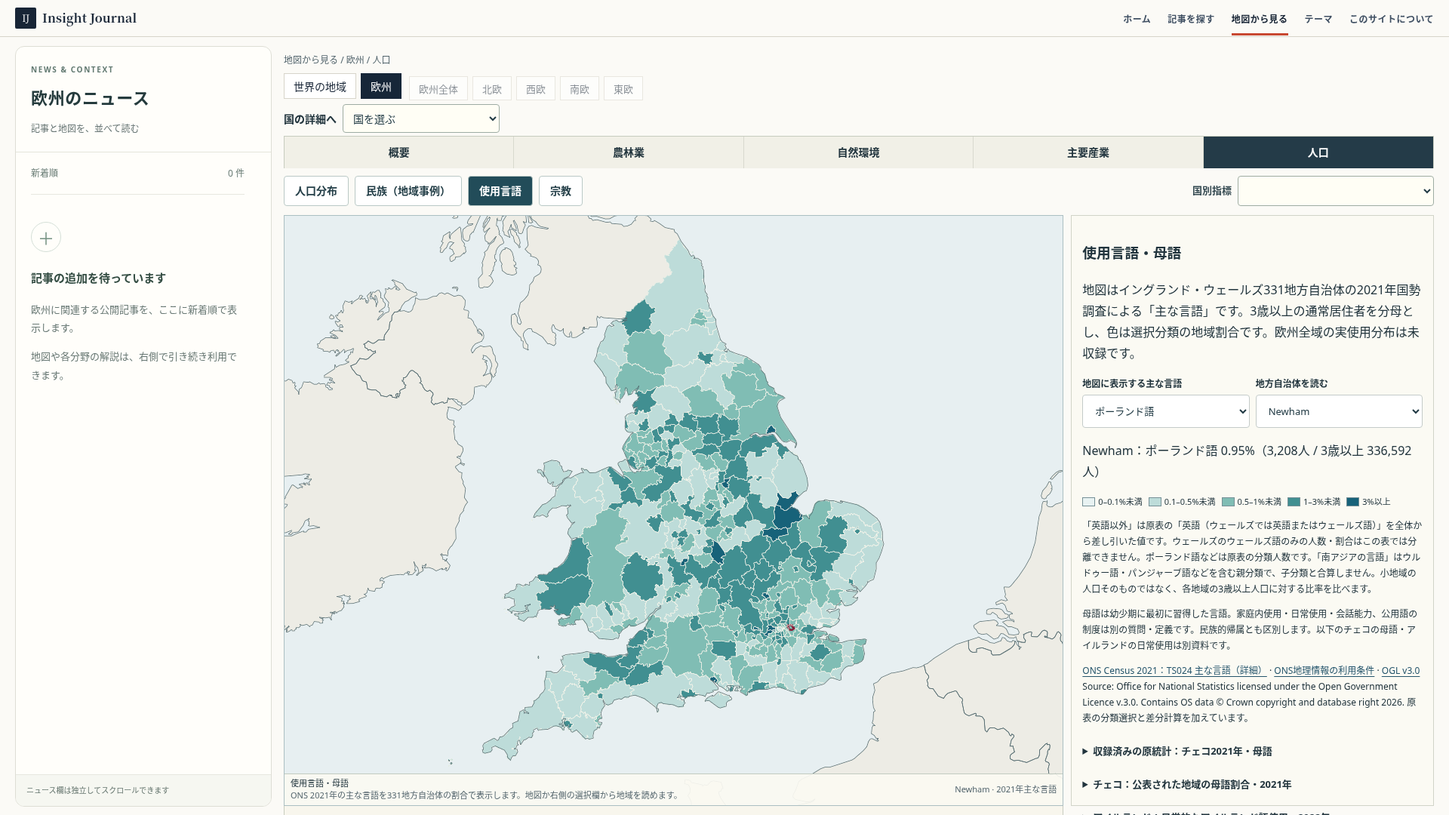
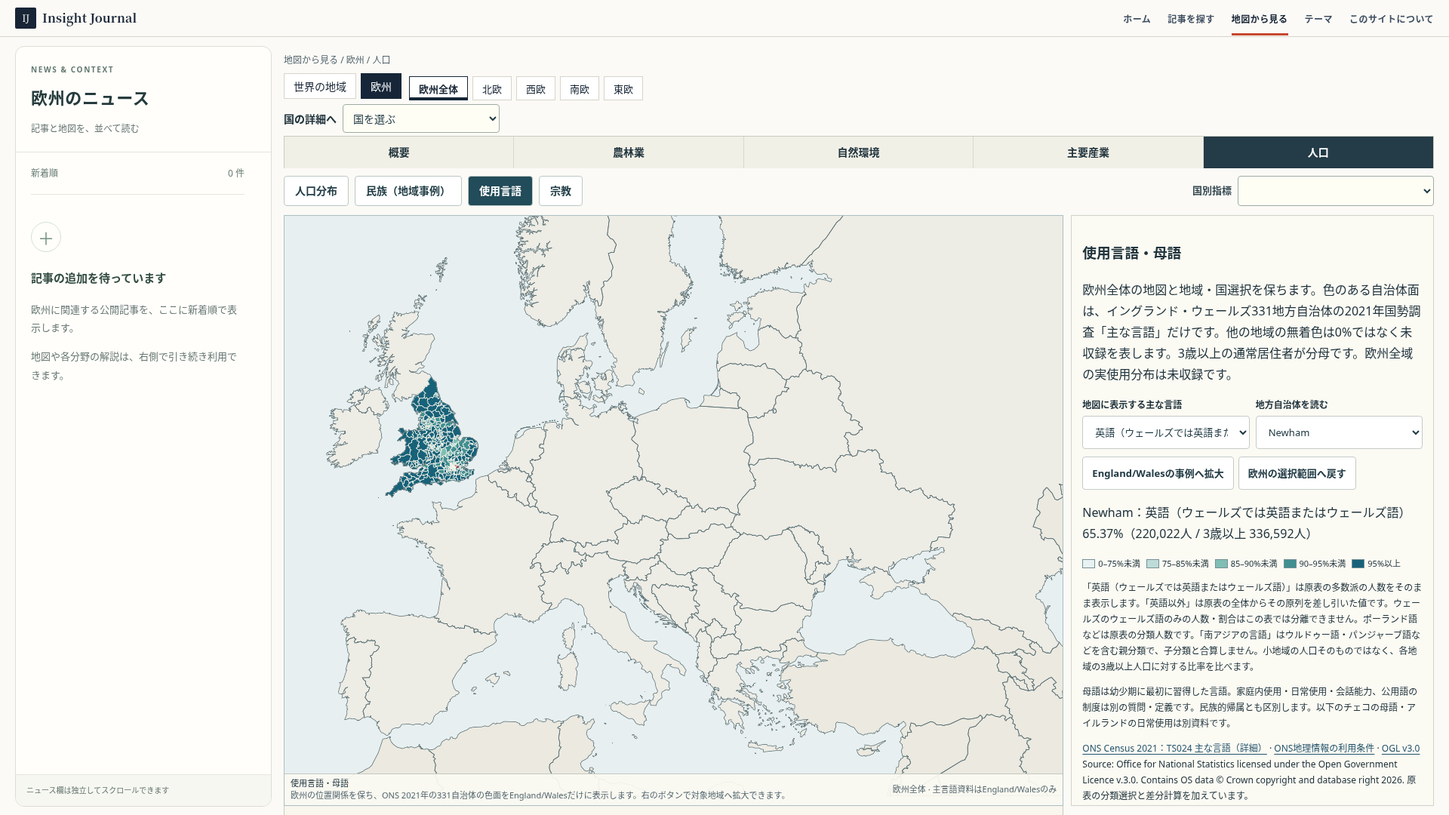
Keep Europe language overview and expose ONS majority category

diff --git a/src/lib/atlas-europe-explorer.ts b/src/lib/atlas-europe-explorer.ts
@@ -81,6 +81,7 @@ export async function initEuropeAtlas() {
   let loadTimer: ReturnType<typeof setTimeout> | undefined;
   const reduced = window.matchMedia?.('(prefers-reduced-motion: reduce)').matches ?? true;
   const regionNames: Record<string, string> = { all: '欧州全体', north: '北欧', west: '西欧', south: '南欧', east: '東欧' };
+  const languageCaseBounds:[[number,number],[number,number]]=[[-6.5,49.8],[2.2,55.9]];
   const comparisonDetails=query<HTMLDetailsElement>('.eu-comparison-origin');
   const comparisonDetailsHome=document.createComment('Europe comparison methods');comparisonDetails.before(comparisonDetailsHome);
   const gridReading=query<HTMLElement>('[data-eu-subject-grid]');
@@ -122,6 +123,8 @@ export async function initEuropeAtlas() {
   async function updateLanguage(){
     languageLayer.style.display=languageActive()?'':'none';
     languageCategory.disabled=!languageActive();languageArea.disabled=!languageActive();
+    query<HTMLButtonElement>('[data-eu-language-fit]').disabled=!languageActive();
+    query<HTMLButtonElement>('[data-eu-language-reset]').disabled=!languageActive();
     paintLanguage();
     if(!languageActive())return;
     Object.assign(state,normaliseEuropeLanguageChoice(state));
@@ -160,6 +163,8 @@ export async function initEuropeAtlas() {
   function selectLanguageArea(code:string){state.languageArea=code;commit(false);}
   languageCategory.addEventListener('change',()=>{state.languageCategory=languageCategory.value;commit(false);});
   languageArea.addEventListener('change',()=>{state.languageArea=languageArea.value||undefined;commit(false);});
+  query<HTMLButtonElement>('[data-eu-language-fit]').addEventListener('click',()=>fit(languageCaseBounds));
+  query<HTMLButtonElement>('[data-eu-language-reset]').addEventListener('click',()=>fit());
   let pewSurfaceGroup:PewSurfaceGroup='unaffiliated';
   let religionOverviewMode:'smre'|'pew'='smre';
   const cultureOverview=createEuropeCultureOverview(root,id=>selectFeature(id),()=>{delete state.feature;state.place='';commit(false);});
@@ -422,7 +427,7 @@ export async function initEuropeAtlas() {
   function setLayer(id:string, save = true) {
     if(id==='overlay' && state.layer!=='overlay')state.returnLayer=state.layer;
     state.layer=id;
-    if(id==='language'){state.region='all';state.place='';state.city='';state.compare=[];delete state.feature;delete state.point;}
+    if(id==='language'){state.city='';state.compare=[];delete state.feature;delete state.point;}
     if(id==='contours')delete state.feature;
     if(id!=='drainage')delete state.riverBasin;
     if(id!=='hubs'){delete state.industryGroup;delete state.industryOnly;}
@@ -726,7 +731,7 @@ export async function initEuropeAtlas() {
     all<SVGElement>('[data-eu-shape]').forEach(shape=>{
       shape.style.fill=religionOverview?religionColor(shape.dataset.euShape??'')??'#d9dcda':cultureActive()?cultureBase:indicator?fills.find(([code])=>code===shape.dataset.euShape)?.[1]??'#d9dcda':'transparent';
       // Transparent country interiors must not intercept physical river lines.
-      shape.style.pointerEvents=indicator||religionOverview?'auto':'none';
+      shape.style.pointerEvents=indicator||religionOverview||languageActive()?'auto':'none';
     });
     if(map?.getLayer('land'))map.setPaintProperty('land','fill-color',religionOverview?['match',['get','code'],...pewFills.flat(),'#edece5']:cultureActive()?cultureBase:indicator?['match',['get','code'],...fills.flat(),'#edece5']:'#edece5');
     query<HTMLElement>('.eu-culture-legend').hidden=cultureActive()&&!state.cultureCase;
@@ -844,7 +849,6 @@ export async function initEuropeAtlas() {
   }
 
   function selectionBounds() {
-    if(languageActive())return [[-6.5,49.8],[2.2,55.9]] as [[number,number],[number,number]];
     if(subject().field==='industry')return [[-12,36],[33,69]] as [[number,number],[number,number]];
     const focus=comparisonFocus();
     if(focus)return [[focus.focusBounds[0],focus.focusBounds[1]],[focus.focusBounds[2],focus.focusBounds[3]]] as [[number,number],[number,number]];
@@ -857,9 +861,9 @@ export async function initEuropeAtlas() {
     const scale=Math.min(staticMap.clientWidth/box[2],staticMap.clientHeight/box[3]);if(!scale)return;
     all<SVGGElement>('[data-eu-point],[data-eu-feature-point]').forEach(g=>{const id=g.dataset.euPoint??g.dataset.euFeaturePoint;const p=[...cities,...features].find(p=>p.id===id);if(!p)return;const [x,y]=project(p.coordinates);g.querySelector('circle')?.setAttribute('r',String(5/scale));const label=g.querySelector('text');label?.setAttribute('x',String(x+9/scale));label?.setAttribute('y',String(y-9/scale));if(label)label.style.fontSize=12/scale+'px';});
   }
-  function fit() {
+  function fit(explicitBounds?:[[number,number],[number,number]]) {
     const onsCulture=cultureActive()&&state.cultureCase==='england-wales-2021';
-    const bounds = onsCulture ? [[-6.5,49.8],[2.2,55.9]] as [[number,number],[number,number]] : cultureActive() ? [[frame.west, frame.south], [frame.east, frame.north]] as [[number,number],[number,number]] : selectionBounds();
+    const bounds = explicitBounds ?? (onsCulture ? [[-6.5,49.8],[2.2,55.9]] as [[number,number],[number,number]] : cultureActive() ? [[frame.west, frame.south], [frame.east, frame.north]] as [[number,number],[number,number]] : selectionBounds());
     const [left, bottom] = project(bounds[0]);
     const [right, top] = project(bounds[1]);
     const width = Math.max(right - left, 24), height = Math.max(bottom - top, 24);
@@ -944,8 +948,6 @@ export async function initEuropeAtlas() {
     const canonical=writeEuropeState(new URL(location.href),state);
     if(canonical.pathname!==location.pathname||(cultureActive()||languageActive()||state.layer==='contours')&&canonical.href!==location.href)history.replaceState({},'',canonical);
     query<HTMLElement>('[data-eu-region-host]').hidden=currentField.id==='industry';
-    topicCountrySelect.disabled=languageActive();
-    topicCountrySelect.title=languageActive()?'この地図の原表はイングランド・ウェールズの自治体です。':'';
     query<HTMLElement>('[data-eu-industry-scope-host]').hidden=true;
     query<HTMLElement>('[data-eu-industry-scope-note]').hidden=currentField.id!=='industry';
     query<HTMLSelectElement>('[data-eu-industry-scope]').value=isEuropeIndustryCountry(state.place)?`country:${state.place}`:`region:${state.region}`;
@@ -953,11 +955,11 @@ export async function initEuropeAtlas() {
     const place = countries.find(c => c.code === state.place);
     query('[data-eu-focus]').textContent = `${place?.name ?? regionNames[state.region]} · ${subject().period}${state.place === 'RUS' ? subject().indicator?' · 数値はロシア全土':' · 地図は表示枠内のみ' : ''}`;
     if(cultureActive())query('[data-eu-focus]').textContent=topic==='religion'&&!state.cultureCase?`${countries.find(c=>c.code===state.place)?.name??'欧州全体'} · ${religionOverviewMode==='smre'?'SMRE 2010期の宗派・宗教':'Pew 2020年国別推計'}`: `${cultureSelection(culture.readState(),topic as 'ethnicity'|'religion').area?.name ?? '欧州全体・地域未選択'} · 2021年国勢調査`;
-    if(languageActive())query('[data-eu-focus]').textContent=`${europeLanguageReading(state).area?.name??'イングランド・ウェールズ'} · 2021年主な言語`;
+    if(languageActive())query('[data-eu-focus]').textContent=`${place?.name??regionNames[state.region]} · 主言語資料はEngland/Walesのみ`;
     all<HTMLButtonElement>('[data-eu-region]').forEach(button => {
-      button.setAttribute('aria-pressed',String(!cultureActive()&&!languageActive()&&button.dataset.euRegion===state.region));
-      button.disabled=cultureActive()||languageActive();
-      button.title=cultureActive()?'この事例の表示範囲は地図下の「事例」で選びます。':languageActive()?'ONSの収録範囲はイングランド・ウェールズです。':'';
+      button.setAttribute('aria-pressed',String(!cultureActive()&&button.dataset.euRegion===state.region));
+      button.disabled=cultureActive();
+      button.title=cultureActive()?'この事例の表示範囲は地図下の「事例」で選びます。':'';
     });
     all<SVGElement>('[data-eu-shape]').forEach(shape => shape.classList.toggle('is-selected', shape.dataset.euShape === state.place));
     all<HTMLElement>('[data-city-card]').forEach(card => { card.hidden = !active.includes(card.dataset.cityCard!); card.style.order = String(active.indexOf(card.dataset.cityCard!)); });
@@ -985,7 +987,7 @@ export async function initEuropeAtlas() {
     }else if(restorePoint)void showGrid(state.point,false);
     query<HTMLElement>('.eu-read-panel').setAttribute('aria-labelledby',state.layer==='language'?'eu-language-heading':cultureActive()?'eu-culture-reader-title':climateReader()?'eu-city-heading':'eu-subject-title');
     const farm=farmingView();
-    const guidance=subject().id==='hubs'?state.industryOnly?`${state.industryGroup}のみ表示中です。右側から全業種へ戻れます。`:'産業を選ぶと同じ業種の拠点を強調します。地図の名前・点から拠点の工程を読めます。':climateReader()?'観測所の平年値 · 1991–2020年':state.layer==='language'?'ONS 2021年の主な言語を331地方自治体の割合で表示します。地図か右側の選択欄から地域を読めます。':state.layer==='religion'&&!state.cultureCase?religionOverviewMode==='smre'?'SMREの45か国の最大分類を比較します。国を押すと8分類の割合と原資料を右に示します。':'Pewの2020年国別推計を地図上の小さな構成帯で示します。国を押すと7分類の値を右に示します。':cultureActive()?'地図下で事例・分類・行政区を選び、同じ表の総人口に対する割合を読みます。':farm.active?farm.single?`${farm.item!.name}だけを表示中です。元の表示には右側のボタンで戻れます。`:'品目名を選ぶと、その分布全体の輪郭を強調します。重なる場所では候補を選べます。':visibleFeatures().length?'地図の名前を押すと、その場所の説明を表示します。':subject().id==='precipitation'?'地図を押すと、その地点の年降水量を右側に表示します。':subject().id==='terrain'?'地図の山脈・平原・半島・海域の名前と右側の説明を読みます。':subject().grid?'地図を押すと、その位置の値を右側に表示します。':subject().indicator?'国を押すと、画面下部に国全体の数値を表示します。':'地図の凡例と右側の説明を読み比べます。';
+    const guidance=subject().id==='hubs'?state.industryOnly?`${state.industryGroup}のみ表示中です。右側から全業種へ戻れます。`:'産業を選ぶと同じ業種の拠点を強調します。地図の名前・点から拠点の工程を読めます。':climateReader()?'観測所の平年値 · 1991–2020年':state.layer==='language'?'欧州の位置関係を保ち、ONS 2021年の331自治体の色面をEngland/Walesだけに表示します。右のボタンで対象地域へ拡大できます。':state.layer==='religion'&&!state.cultureCase?religionOverviewMode==='smre'?'SMREの45か国の最大分類を比較します。国を押すと8分類の割合と原資料を右に示します。':'Pewの2020年国別推計を地図上の小さな構成帯で示します。国を押すと7分類の値を右に示します。':cultureActive()?'地図下で事例・分類・行政区を選び、同じ表の総人口に対する割合を読みます。':farm.active?farm.single?`${farm.item!.name}だけを表示中です。元の表示には右側のボタンで戻れます。`:'品目名を選ぶと、その分布全体の輪郭を強調します。重なる場所では候補を選べます。':visibleFeatures().length?'地図の名前を押すと、その場所の説明を表示します。':subject().id==='precipitation'?'地図を押すと、その地点の年降水量を右側に表示します。':subject().id==='terrain'?'地図の山脈・平原・半島・海域の名前と右側の説明を読みます。':subject().grid?'地図を押すと、その位置の値を右側に表示します。':subject().indicator?'国を押すと、画面下部に国全体の数値を表示します。':'地図の凡例と右側の説明を読み比べます。';
     status.textContent=(failed?'簡易地図で表示中。':'')+guidance;
     query<HTMLElement>('[data-eu-statistics]').hidden=all<HTMLElement>('[data-eu-statistics] > *').every(section=>section.hidden);
     all<HTMLElement>('[data-eu-extra-field]').forEach(el=>{el.hidden=el.dataset.euExtraField!==currentField.id;});
@@ -1014,12 +1016,13 @@ export async function initEuropeAtlas() {
     }
     const country = countries.find(c => c.code === code);
     state.place = country?.code ?? '';
+    if(languageActive())delete state.languageArea;
     if(state.farmCompare){state.farmCompare=state.farmCompare.filter(code=>code!==state.place);if(!state.farmCompare.length)delete state.farmCompare;}
     delete state.feature;
     if (!country){state.region='all';state.city='';state.compare=[];}
     if (country) {
       state.region = country.region;
-      state.city=subject().field==='agriculture'?'':defaultEuropeCity(code,ids);state.compare=[];
+      state.city=subject().field==='agriculture'||languageActive()?'':defaultEuropeCity(code,ids);state.compare=[];
     }
     commit(subject().field!=='agriculture');
   }
@@ -1103,7 +1106,7 @@ export async function initEuropeAtlas() {
         map.addLayer({id:'climate-water',type:'fill',source:'climate-water',paint:{'fill-color':'#e7eff1'}});
         map.addLayer({id:'climate-water-outline',type:'line',source:'climate-water',paint:{'line-color':'#8ca6aa','line-width':.7}});
         map.addLayer({ id: 'selected', type: 'line', source: 'countries', filter: ['==', ['get', 'code'], state.place], paint: { 'line-color': '#173c48', 'line-width': 3 } });
-        map.on('click', 'land', e => { const code = e.features?.[0]?.properties?.code; if ((subject().indicator||state.layer==='religion') && countries.some(c => c.code === code)) selectCountry(code); });
+        map.on('click', 'land', e => { const code = e.features?.[0]?.properties?.code; if(languageActive()&&map?.getLayer('eu-language-fill')&&map.queryRenderedFeatures(e.point,{layers:['eu-language-fill']}).length)return; if ((subject().indicator||state.layer==='religion'||languageActive()) && countries.some(c => c.code === code)) selectCountry(code); });
         map.on('click','eu-culture-fill',e=>{if(cultureActive()){const code=e.features?.[0]?.properties?.code;if(typeof code==='string')culture.selectArea(code);}});
         map.on('click','eu-language-fill',e=>{if(languageActive()){const code=e.features?.[0]?.properties?.code;if(typeof code==='string')selectLanguageArea(code);}});
         map.on('click', e => { mapSelection([e.lngLat.lng, e.lngLat.lat]); });
@@ -1120,7 +1123,7 @@ export async function initEuropeAtlas() {
     if(kind!=='region'||!Object.hasOwn(regionNames,id))return;
     state.region=id;state.place='';state.city='';state.compare=[];delete state.feature;commit(false);
   });
-  all<HTMLElement>('[data-eu-region]').forEach(button => button.addEventListener('click', () => { state.region = button.dataset.euRegion!; state.place = ''; delete state.feature;commit(subject().field!=='industry'); }));
+  all<HTMLElement>('[data-eu-region]').forEach(button => button.addEventListener('click', () => { state.region = button.dataset.euRegion!; state.place = ''; delete state.feature;if(languageActive())delete state.languageArea;commit(subject().field!=='industry'); }));
   query<HTMLSelectElement>('[data-eu-religion-country]').addEventListener('change',event=>selectCountry((event.target as HTMLSelectElement).value));
   query<HTMLButtonElement>('[data-eu-smre-overview]').addEventListener('click',()=>{religionOverviewMode='smre';render(false);});
   all<HTMLButtonElement>('[data-eu-pew-surface-group]').forEach(button=>button.addEventListener('click',()=>{
@@ -1130,7 +1133,7 @@ export async function initEuropeAtlas() {
       render(false);
     }
   }));
-  all<SVGElement>('[data-eu-shape]').forEach(shape => shape.addEventListener('click', () => { if (subject().indicator||state.layer==='religion') selectCountry(shape.dataset.euShape!); }));
+  all<SVGElement>('[data-eu-shape]').forEach(shape => shape.addEventListener('click', () => { if (subject().indicator||state.layer==='religion'||languageActive()) selectCountry(shape.dataset.euShape!); }));
   staticMap.addEventListener('click', event => {
     if (state.layer === 'climate') return;
     const transform = staticMap.getScreenCTM(); if (!transform) return;

diff --git a/src/data/atlas/europe/layers.ts b/src/data/atlas/europe/layers.ts
@@ -32,7 +32,7 @@ export const europeLayers: EuropeLayer[] = [
  {id:'growth',field:'population',title:'人口増加率',period:'2023',unit:'% / 年',note:'国全体の年間人口増加率。自然増減と移動を含む総人口の変化であり、移民数そのものではありません。',source:'https://data.worldbank.org/indicator/SP.POP.GROW',indicator:'growth',breaks:[-2,-1,0,1,2],colors:['#91452c','#bf7d59','#e6c6b2','#c9dfd9','#78aba1','#337e73']},
  {...europePrecipitationLayer,attribution:europePrecipitationReading.attribution,licence:'https://creativecommons.org/licenses/by/4.0/'},
  drainageLayer,
- {id:'language',field:'population',title:'使用言語・母語',period:'2021年（収録分）',unit:'原質問ごとの人数・地域割合',note:'ONS 2021年の主な言語はEngland/Walesの331地方自治体で表示します。チェコの母語・アイルランドの日常使用とは定義を分け、欧州全域に外挿しません。',source:'https://www.ons.gov.uk/datasets/TS024/editions/2021/versions/1'},
+ {id:'language',field:'population',title:'使用言語・母語',period:'2021年（収録分）',unit:'原質問ごとの人数・地域割合',note:'欧州全体図を保ち、ONS 2021年の主な言語はEngland/Walesの331地方自治体だけを着色します。原表の英語（ウェールズでは英語またはウェールズ語）も選べます。他地域の無着色は欠測で、チェコの母語・アイルランドの日常使用とは定義を分けます。',source:'https://www.ons.gov.uk/datasets/TS024/editions/2021/versions/1'},
  {id:'ethnicity',field:'population',title:'民族的帰属の地域事例',period:'2021年国勢調査',unit:'同じ表の総人口比 %',note:'イングランド・ウェールズの行政区とクロアチアの全国値の事例です。欧州全域の分布ではありません。自己申告の元分類と表ごとの分母を使い、未回答・不明を区別します。',source:'https://www.ons.gov.uk/census',breaks:[5,20,50,80],colors:['#deedf2','#a9cbd9','#6d9eb8','#3d718f','#184a65'],labels:['0〜5%未満','5〜20%未満','20〜50%未満','50〜80%未満','80〜100%']},
  {id:'religion',field:'population',title:'宗派・宗教の広域分布',period:'2010期（2006–2015年）',unit:'各国の宗教的帰属 %',note:'SMREの標準化推計を45か国で比較します。初期色面は各国の最大分類で、国内の均一性や多数派の領域を示しません。カトリック・プロテスタント・正教会を区別し、宗教的帰属なしも元の分類です。国選択後に全8分類、資料品質と既存の国勢調査・Pew 2020年推計を別掲します。',source:'https://www.smre-data.ch/en/content/download/159',breaks:[],colors:[],labels:[]},
 ];

diff --git a/src/styles/atlas-europe-population-cases.css b/src/styles/atlas-europe-population-cases.css
@@ -91,6 +91,10 @@
 .eu-language-controls { display:grid; gap:8px; margin:10px 0; }
 .eu-language-controls label { display:grid; gap:4px; font-weight:700; font-size:12px; }
 .eu-language-controls select { min-width:0; width:100%; min-height:40px; padding:6px; border:1px solid #93a5aa; background:#fffef7; color:#223c47; font:13px/1.4 var(--sans,sans-serif); }
+.eu-language-extent-actions { display:flex; flex-wrap:wrap; gap:6px; margin:4px 0 10px; }
+.eu-language-extent-actions button { min-height:36px; padding:5px 9px; border:1px solid #7a929b; border-radius:2px; background:#f7f5eb; color:#223c47; font:700 12px/1.4 var(--sans,sans-serif); cursor:pointer; }
+.eu-language-extent-actions button:hover { background:#e5edf0; }
+.eu-language-extent-actions button:focus-visible { outline:3px solid #841e37; outline-offset:2px; }
 .eu-language-scale { display:flex; flex-wrap:wrap; gap:4px 8px; margin:8px 0; font-size:11px; }
 .eu-language-scale span { display:inline-flex; align-items:center; gap:4px; }
 .eu-language-scale i { width:17px; height:12px; border:1px solid #769096; }

diff --git a/src/lib/atlas-europe-view.ts b/src/lib/atlas-europe-view.ts
@@ -69,7 +69,7 @@ export function readEuropeState(search: string, countries: { code: string; regio
   const basin = normaliseEuropeDrainageBasin(p.get('basin'));
   if (basin) state.basin = basin;
   if(layer==='drainage'){const selection=europeMainRiverSelection(p.get('riverBasin'));if(selection){delete state.basin;Object.assign(state,selection);}}
-  if(layer==='language'){state.region='all';state.place='';state.city='';state.compare=[];Object.assign(state,normaliseEuropeLanguageChoice(p));}
+  if(layer==='language'){state.city='';state.compare=[];Object.assign(state,normaliseEuropeLanguageChoice(p));}
   if(layer==='ethnicity'||layer==='religion')Object.assign(state,normalisePopulationCaseChoice(p,layer,censusCases as PopulationCensusCasePackage));
   else {
     const censusCase=censusCases.cases.find(item=>item.id===p.get('cultureCase'));

diff --git a/src/lib/atlas-europe-language.ts b/src/lib/atlas-europe-language.ts
@@ -23,7 +23,7 @@ export function europeLanguageReading(choice: EuropeLanguageChoice) {
   return { category, area, count, share };
 }
 export function europeLanguageBreaks(categoryId: string) {
-  return categoryId === europeLanguageDefault ? [2, 5, 10, 20] : [0.1, 0.5, 1, 3];
+  return categoryId === europeLanguageDefault ? [2, 5, 10, 20] : categoryId === 'english-welsh' ? [75, 85, 90, 95] : [0.1, 0.5, 1, 3];
 }
 export function europeLanguageColor(share: number | null, categoryId: string): string {
   if (share === null || !Number.isFinite(share)) return '#b8bec7';

diff --git a/scripts/europe/prepare-language-ts024.py b/scripts/europe/prepare-language-ts024.py
@@ -13,6 +13,7 @@ OUTPUT = ROOT / "src/data/atlas/europe/main-language-ts024-2021.json"
 # Zero-based positions in the CSV, retained with the original ONS column labels.
 CATEGORIES = [
     ("other", "英語以外の主言語（ウェールズでは英語・ウェールズ語以外）", None),
+    ("english-welsh", "英語（ウェールズでは英語またはウェールズ語）", 5),
     ("polish", "ポーランド語", 23),
     ("romanian", "ルーマニア語", 26),
     ("french", "フランス語", 17),

diff --git a/docs/review/europe-2026-10-13/README.md b/docs/review/europe-2026-10-13/README.md
@@ -4,12 +4,14 @@
 
 ## 今回反映した部分
 
-- 追加受領したONS Census 2021 TS024 `census2021-ts024-ltla.csv` はChatGPT Libraryの連続4窓で全331行・110列を読み、原文テキスト抽出を保存した。原CSVそのもののバイト列は取得していないので、記録するSHA256は抽出テキストのみを指す。331行政区コードは既存ONS 2021境界331件に完全一致、各行の原表トップ階層22分類は3歳以上の分母に一致することを確認。言語タブには「主な言語」の自治体別の実分布面、10の原分類／派生差分の切替、自治体名からの選択、割合・人数・分母、出典・凡例を追加した。既定色の「英語以外」は原表の全体から「英語（ウェールズでは英語またはウェールズ語）」を引く。ウェールズのウェールズ語単独割合は出さない。チェコの母語とアイルランドの日常使用は別定義の既存表に残す。欧州全域の言語分布と呼ばない。原表、再生成手順、利用条件は[データ台帳](../../../data-source/atlas/europe/population-cases/README.md)に追記した。
+- 言語図の追加受入では、初期表示を欧州全体の地図範囲と地域・国選択へ戻した。ONS自治体面はEngland/Walesだけを塗り、他地域の無着色は未収録と明記。事例への拡大は右欄の明示ボタンを押したときだけ行い、欧州の選択範囲に戻せる。原表の多数派列「英語（ウェールズでは英語またはウェールズ語）」を11分類の一つとして加え、原人数と3歳以上分母に対する割合を同じ図・右欄で読む。ウェールズ語単独値は作らない。
+
+- 追加受領したONS Census 2021 TS024 `census2021-ts024-ltla.csv` はChatGPT Libraryの連続4窓で全331行・110列を読み、原文テキスト抽出を保存した。原CSVそのもののバイト列は取得していないので、記録するSHA256は抽出テキストのみを指す。331行政区コードは既存ONS 2021境界331件に完全一致、各行の原表トップ階層22分類は3歳以上の分母に一致することを確認。言語タブには「主な言語」の自治体別の実分布面、11の原分類／派生差分の切替、自治体名からの選択、割合・人数・分母、出典・凡例を追加した。既定色の「英語以外」は原表の全体から「英語（ウェールズでは英語またはウェールズ語）」を引く。ウェールズのウェールズ語単独割合は出さない。チェコの母語とアイルランドの日常使用は別定義の既存表に残す。欧州全域の言語分布と呼ばない。原表、再生成手順、利用条件は[データ台帳](../../../data-source/atlas/europe/population-cases/README.md)に追記した。
 
 - 水資源の地図と右欄にライン、ドナウ、セーヌ、テムズ、ドン、ヴォルガ、ウラルを同じ「本流の水系」として置いた。保存済み5水系は同じ `MAIN_BAS` の区画を統合した輪郭を名称・線・セレクトから選べる。テムズとウラルには対象の原流域面がないため、河川線と名称だけを強調し、無関係な英国沿岸の区画やカザフスタン側の推定面を描かない。元の `HYBAS_ID` 区画は補足に残した。現在の5面は対象国・表示枠で切れ、自然全流域ではない。
 - 既存の畜産の牛は GLW4 2020 の乳用・肉用を分けない合計であることを地図ラベルにも明示した。元の牛の概略面内で原格子値が正の西フランスにラベルを移し、豚・鶏・羊のラベル衝突を避けた。面・値・他品目は変更していない。果樹・園芸の3集合品目と酪農専用／ブドウ／オリーブの未収録を右説明・凡例で区別した。
 - 保存済み一次資料のチェコ2021年の公表地域における母語割合8行と、アイルランド2022年の10都市でのアイルランド語の日常使用の例を右欄の表へ追加した。前者は母語回答者が分母、後者はアイルランド語話者が分母。地図の欧州全域の実使用分布を埋めたと扱わない。民族と宗教の現在の全国値・限定された地方値もそのまま残す。
-- テストでは7名称のクリック、選択・再読込・履歴、輪郭有無、カメラと名称位置の固定、牛／鶏の衝突、他品目、言語表と欠測文を通常／簡易1920×1080 CSS 100%・DPR1で確認した。[従来の変更部検査](images/checks.json)。今回のTS024言語図は同条件で331面・10分類・地域選択・再読込・簡易地図のキーボード選択を[独立検査](images/language-checks.json)し、[通常図](images/language-auto-1920.png)と[簡易図](images/language-static-1920.png)を保存した。既存PC画像は別チェックポイントにある。
+- テストでは7名称のクリック、選択・再読込・履歴、輪郭有無、カメラと名称位置の固定、牛／鶏の衝突、他品目、言語表と欠測文を通常／簡易1920×1080 CSS 100%・DPR1で確認した。[従来の変更部検査](images/checks.json)。今回のTS024言語図は同条件で331面・11分類・欧州初期範囲と地域／国選択・明示拡大／復帰・再読込・簡易地図のキーボード選択を[独立検査](images/language-checks.json)し、[通常の欧州図](images/language-auto-1920.png)・[簡易の欧州図](images/language-static-1920.png)と[通常の明示拡大](images/language-auto-local-english-1920.png)・[簡易の明示拡大](images/language-static-local-english-1920.png)を保存した。既存PC画像は別チェックポイントにある。
 
 同梱画像はコミット前の候補で、`checks.json` の `commitSha=local` を最終headの証拠として扱わない。最終headのproduction releaseとの一致はコミット後の別検査とPR本文に記録する。
 

diff --git a/data-source/atlas/europe/population-cases/README.md b/data-source/atlas/europe/population-cases/README.md
@@ -2,7 +2,7 @@
 
 This package contains **two selected cases**: England/Wales with 331 LAD2021 areas, and Croatia with one explicitly published national total. It does not cover the whole United Kingdom or Europe. These grains differ and must not be presented as a uniform regional comparison. No electoral data is included.
 
-The language tab additionally uses ONS Census 2021 [TS024 Main language (detailed)](https://www.ons.gov.uk/datasets/TS024/editions/2021/versions/1) for the same 331 England/Wales LAD codes. `census2021-ts024-ltla-library-extract.csv` is a retained **parsed-text extract** read from a user-provided ChatGPT Library CSV (filename `census2021-ts024-ltla.csv`, Library-reported size 118153 bytes). Its hash in the generated JSON describes this text extract, not the original CSV bytes. Four contiguous Library line windows yielded the header and all 331 rows. `python3 scripts/europe/prepare-language-ts024.py` validates 110 columns per row, the complete code join, nonnegative counts, the 22 disjoint top-level categories summing to each row's 3+ usual-resident denominator, and each parent category's child sum before rebuilding `src/data/atlas/europe/main-language-ts024-2021.json`. The selected map categories retain the original source-column labels and index; the default complement is total minus the source's English (or English/Welsh in Wales) count. Welsh main-language counts in Wales are not separately identified in this table. The South Asian parent category contains, and must not be added to, its Urdu/Panjabi children. These are main-language responses, not mother tongue, ethnicity, proficiency or an entire-Europe distribution.
+The language tab additionally uses ONS Census 2021 [TS024 Main language (detailed)](https://www.ons.gov.uk/datasets/TS024/editions/2021/versions/1) for the same 331 England/Wales LAD codes. `census2021-ts024-ltla-library-extract.csv` is a retained **parsed-text extract** read from a user-provided ChatGPT Library CSV (filename `census2021-ts024-ltla.csv`, Library-reported size 118153 bytes). Its hash in the generated JSON describes this text extract, not the original CSV bytes. Four contiguous Library line windows yielded the header and all 331 rows. `python3 scripts/europe/prepare-language-ts024.py` validates 110 columns per row, the complete code join, nonnegative counts, the 22 disjoint top-level categories summing to each row's 3+ usual-resident denominator, and each parent category's child sum before rebuilding `src/data/atlas/europe/main-language-ts024-2021.json`. The selected map categories retain the original source-column labels and index. The original English (or English/Welsh in Wales) majority column is selectable directly; the default complement is total minus that same source column. Welsh main-language counts in Wales are not separately identified in this table. The South Asian parent category contains, and must not be added to, its Urdu/Panjabi children. These are main-language responses, not mother tongue, ethnicity, proficiency or an entire-Europe distribution. The Europe map opens at its Europe-wide extent, while a named control explicitly fits the limited England/Wales case.
 
 The selected original [Nomis Census 2021 bulk](https://www.nomisweb.co.uk/sources/census_2021_bulk) CSVs are TS021 (ethnic group) and TS030 (religion), using their lower-tier local authority and original country tables. Their retained metadata identifies version 1, issued 29 November 2022, census reference date 21 March 2021. These extracts must not be described as the latest ONS version. Counts are persons, including all usual residents; each topic's own published total is the denominator.
 
